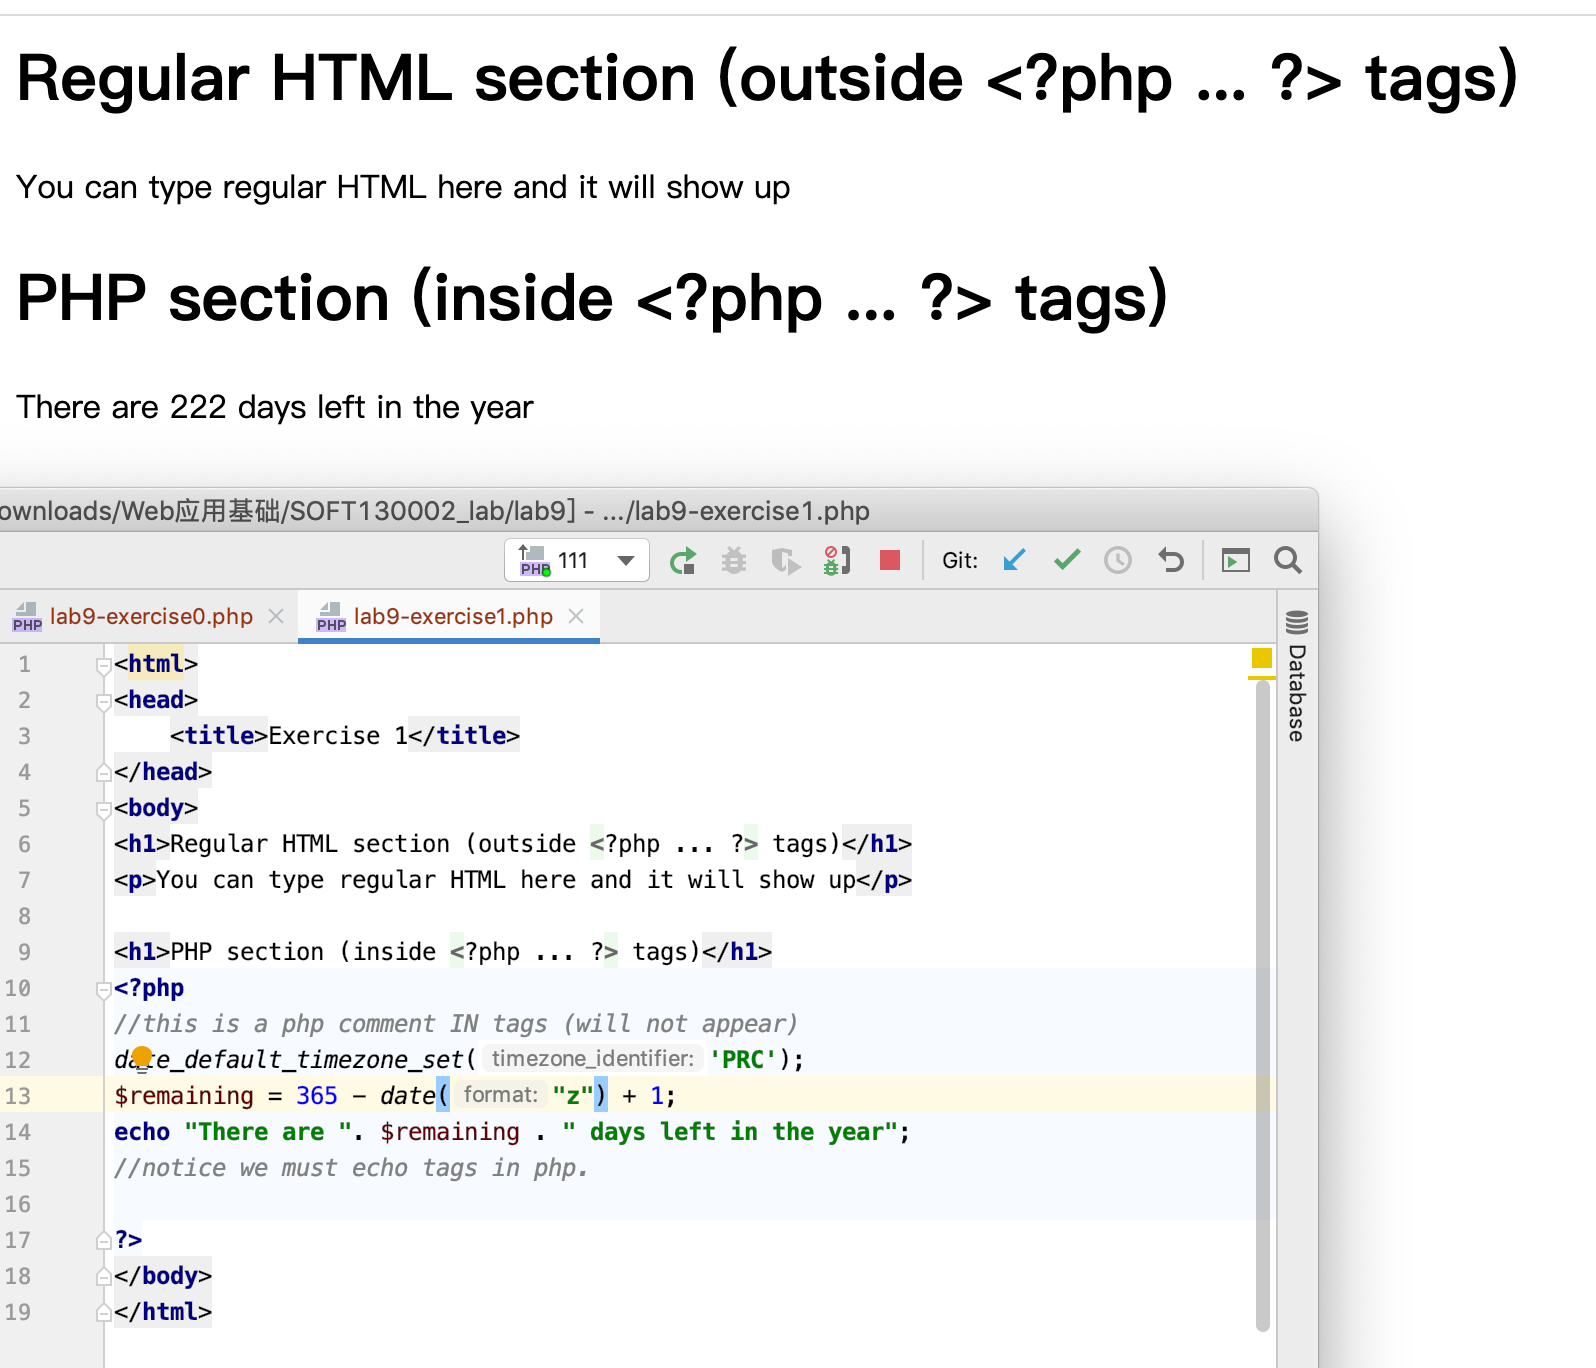
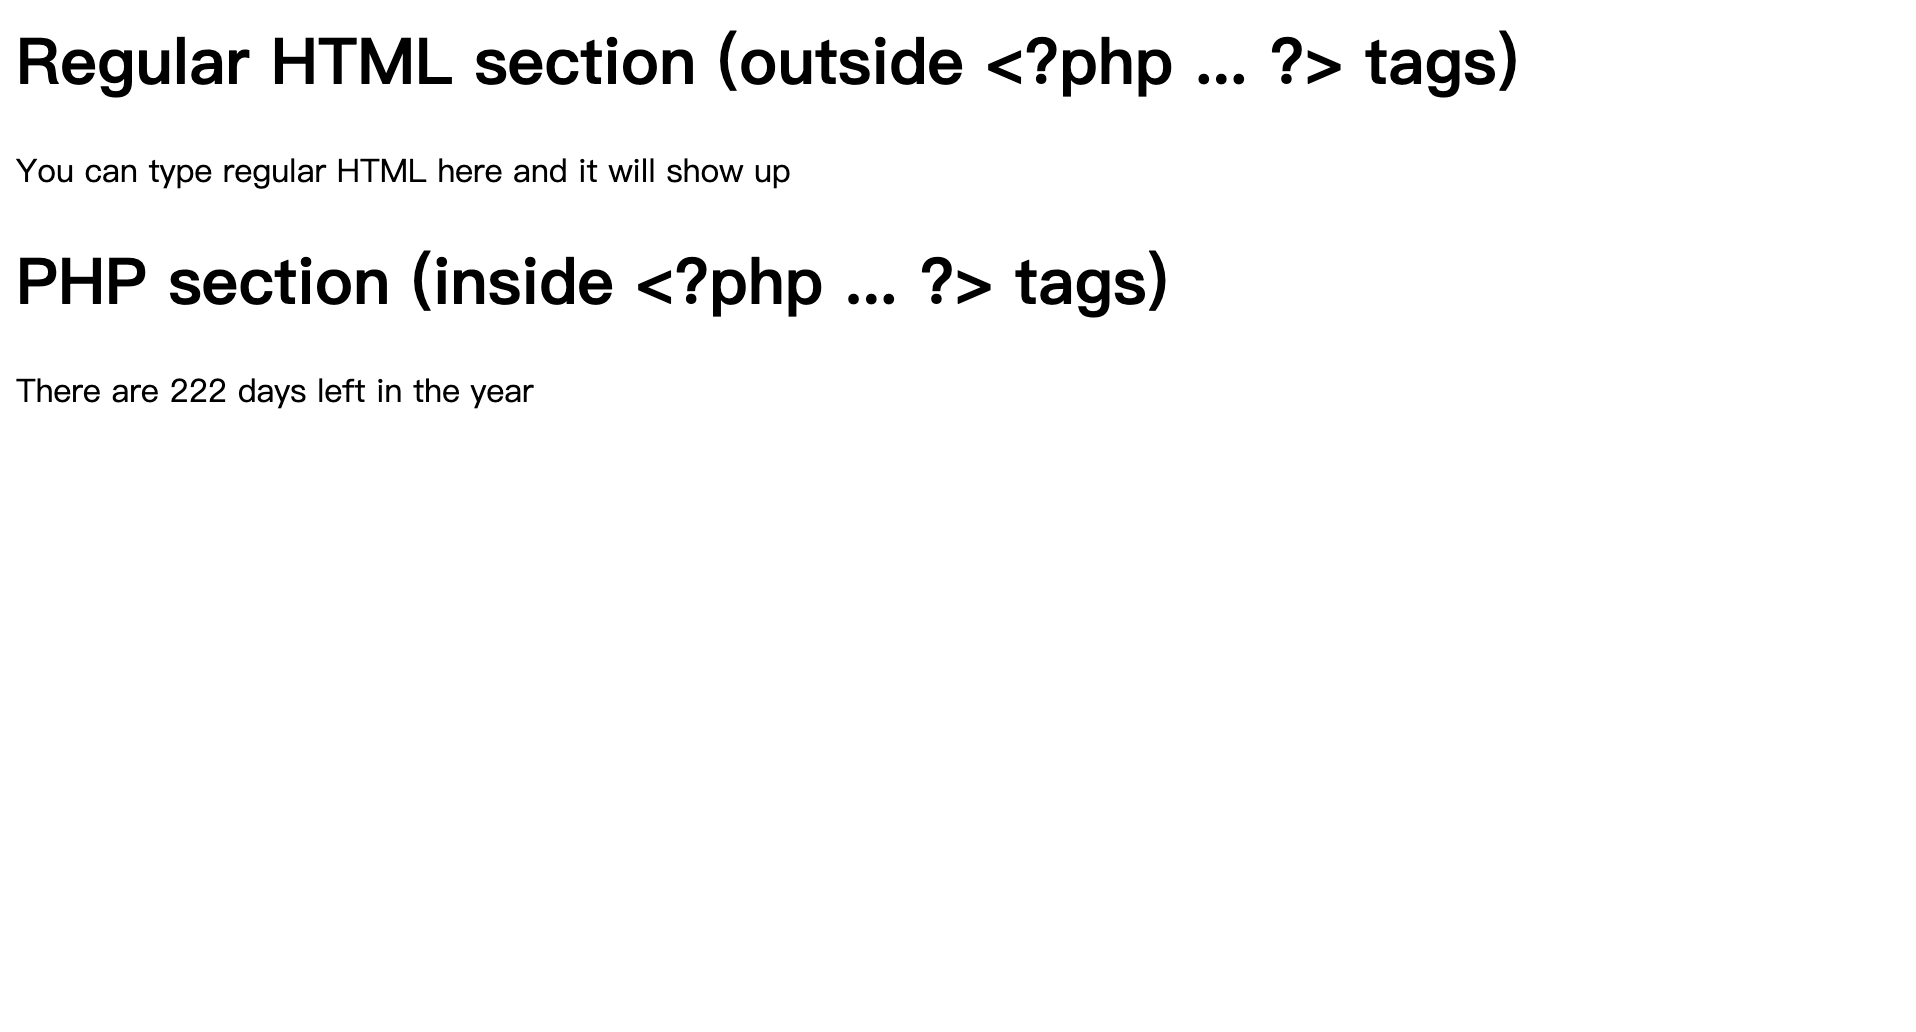
modify lab9 leap year judge

diff --git a/lab9/lab9-exercise1.php b/lab9/lab9-exercise1.php
@@ -10,7 +10,8 @@
 <?php
 //this is a php comment IN tags (will not appear)
 date_default_timezone_set('PRC');
-$remaining = 365 - date("z") + 1;
+// 是闰年就+1，不是就365
+$remaining = (date("L"))? 365 - date("z") + 1 : 365 - date("z");
 echo "There are ". $remaining . " days left in the year";
 //notice we must echo tags in php.
 
